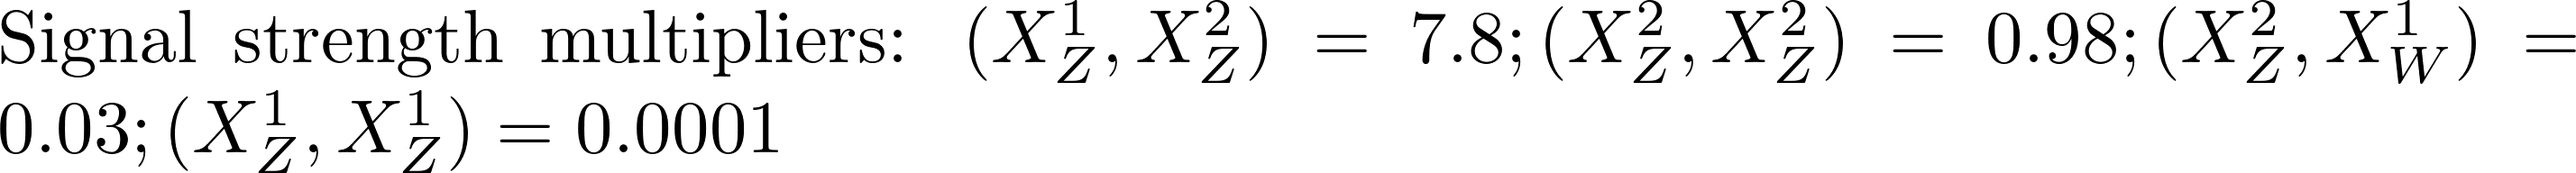
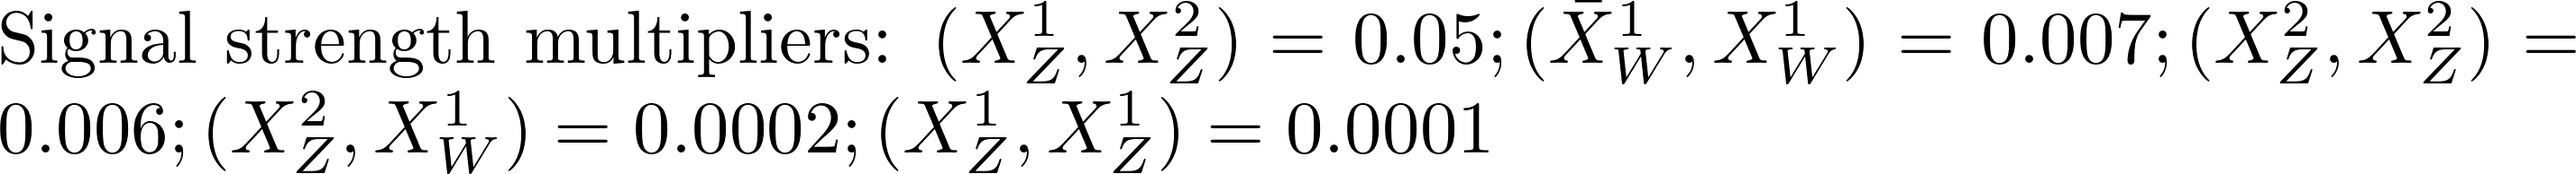
automated update by plotHiscore.py to walk322_5:     K=-24.149 TL=0.15 walkerid=569

diff --git a/protomodels/walk322_5/rawnumbers.html b/protomodels/walk322_5/rawnumbers.html
@@ -1,12 +1,12 @@
 <table>
 <tr><th>Analysis Name</th><th>Type</th><th>Dataset</th><th>Topos</th><th>Observed</th><th>Expected</th><th>Approx &sigma;</th><th>Particles</th>
 </tr>
-<tr><td><a href=https://atlas.web.cern.ch/Atlas/GROUPS/PHYSICS/PAPERS/EXOT-2018-06/>ATLAS-EXOT-2018-06</a></td><td>em</td> <td>EM10</td><td>TChiISR</td><td>413</td><td>359.00 +/- 10.00</td><td style="text-align:right">2.4 &sigma;</td><td style="text-align:right">X<sup>2</sup><sub>Z</sub>, X<sup>1</sup><sub>Z</sub></td></tr>
-<tr><td><a href=http://cms-results.web.cern.ch/cms-results/public-results/publications/EXO-20-004/>CMS-EXO-20-004</a></td><td>comb</td> <td>-</td><td>TChiISR</td><td> 4e+01 fb </td><td> 3e+01 fb</td><td style="text-align:right">2.2 &sigma;</td><td style="text-align:right">X<sup>2</sup><sub>Z</sub>, X<sup>1</sup><sub>Z</sub></td></tr>
-<tr><td><a href=http://cms-results.web.cern.ch/cms-results/public-results/publications/EXO-19-010/>CMS-EXO-19-010</a></td><td>em</td> <td>SR_nlay5</td><td>TDTM2F</td><td>6</td><td>3.70 +/- 1.24</td><td style="text-align:right">0.8 &sigma;</td><td style="text-align:right">X<sup>1</sup><sub>W</sub>, X<sup>2</sup><sub>Z</sub>, X<sup>1</sup><sub>Z</sub></td></tr>
-<tr><td><a href=https://atlas.web.cern.ch/Atlas/GROUPS/PHYSICS/PAPERS/SUSY-2018-42/>ATLAS-SUSY-2018-42</a></td><td>em</td> <td>SR300_High_long</td><td>TDTM2F</td><td>7</td><td>5.10 +/- 0.50</td><td style="text-align:right">0.7 &sigma;</td><td style="text-align:right">X<sup>1</sup><sub>W</sub>, X<sup>2</sup><sub>Z</sub>, X<sup>1</sup><sub>Z</sub></td></tr>
-<tr><td><a href=https://atlas.web.cern.ch/Atlas/GROUPS/PHYSICS/PAPERS/SUSY-2018-19/>ATLAS-SUSY-2018-19</a></td><td>em</td> <td>SR_EW</td><td>TDTM2F</td><td>3</td><td>3.00 +/- 0.70</td><td style="text-align:right">-0.2 &sigma;</td><td style="text-align:right">X<sup>1</sup><sub>W</sub>, X<sup>2</sup><sub>Z</sub>, X<sup>1</sup><sub>Z</sub></td></tr>
-<tr><td><a href=https://atlas.web.cern.ch/Atlas/GROUPS/PHYSICS/PAPERS/SUSY-2016-06/>ATLAS-SUSY-2016-06</a></td><td>em</td> <td>SR_EW</td><td>TDTM2F</td><td>9</td><td>11.80 +/- 3.10</td><td style="text-align:right">-0.7 &sigma;</td><td style="text-align:right">X<sup>1</sup><sub>W</sub>, X<sup>2</sup><sub>Z</sub>, X<sup>1</sup><sub>Z</sub></td></tr>
+<tr><td><a href=https://atlas.web.cern.ch/Atlas/GROUPS/PHYSICS/PAPERS/EXOT-2018-06/>ATLAS-EXOT-2018-06</a></td><td>em</td> <td>EM10</td><td>TChiISR</td><td>413</td><td>359.00 +/- 10.00</td><td style="text-align:right">2.5 &sigma;</td><td style="text-align:right">X<sup>2</sup><sub>Z</sub>, X<sup>1</sup><sub>Z</sub></td></tr>
+<tr><td><a href=http://cms-results.web.cern.ch/cms-results/public-results/publications/EXO-19-010/>CMS-EXO-19-010</a></td><td>em</td> <td>SR_nlay5</td><td>TDTM1F, TDTM2F</td><td>6</td><td>3.70 +/- 1.24</td><td style="text-align:right">0.8 &sigma;</td><td style="text-align:right">X<sup>1</sup><sub>W</sub>, X<sup>2</sup><sub>Z</sub>, X<sup>1</sup><sub>Z</sub></td></tr>
+<tr><td><a href=https://atlas.web.cern.ch/Atlas/GROUPS/PHYSICS/PAPERS/SUSY-2018-42/>ATLAS-SUSY-2018-42</a></td><td>em</td> <td>SR300_High_long</td><td>TDTM1F, TDTM2F</td><td>7</td><td>5.10 +/- 0.50</td><td style="text-align:right">0.7 &sigma;</td><td style="text-align:right">X<sup>1</sup><sub>W</sub>, X<sup>2</sup><sub>Z</sub>, X<sup>1</sup><sub>Z</sub></td></tr>
+<tr><td><a href=https://atlas.web.cern.ch/Atlas/GROUPS/PHYSICS/PAPERS/SUSY-2018-19/>ATLAS-SUSY-2018-19</a></td><td>em</td> <td>SR_EW</td><td>TDTM1F, TDTM2F</td><td>3</td><td>3.00 +/- 0.70</td><td style="text-align:right">-0.2 &sigma;</td><td style="text-align:right">X<sup>1</sup><sub>W</sub>, X<sup>2</sup><sub>Z</sub>, X<sup>1</sup><sub>Z</sub></td></tr>
+<tr><td><a href=https://atlas.web.cern.ch/Atlas/GROUPS/PHYSICS/PAPERS/SUSY-2016-06/>ATLAS-SUSY-2016-06</a></td><td>em</td> <td>SR_EW</td><td>TDTM1F, TDTM2F</td><td>9</td><td>11.80 +/- 3.10</td><td style="text-align:right">-0.7 &sigma;</td><td style="text-align:right">X<sup>1</sup><sub>W</sub>, X<sup>2</sup><sub>Z</sub>, X<sup>1</sup><sub>Z</sub></td></tr>
+<tr><td><a href=http://cms-results.web.cern.ch/cms-results/public-results/publications/EXO-20-004/>CMS-EXO-20-004</a></td><td>comb</td> <td>-</td><td>TChiISR</td><td> 4e+01 fb </td><td> 3e+01 fb</td><td style="text-align:right">-0.8 &sigma;</td><td style="text-align:right">X<sup>2</sup><sub>Z</sub>, X<sup>1</sup><sub>Z</sub></td></tr>
 </table>
 <table style='color:grey'>
 <tr><th>Not in Best Combo</th><th>Type</th><th>Dataset</th><th>Topos</th><th>Observed</th><th>Expected</th><th>Approx &sigma;</th><th>Particles</th></table>

diff --git a/protomodels/walk322_5/index.html b/protomodels/walk322_5/index.html
@@ -1,27 +1,27 @@
 <html>
 <body>
 <center>
-<table><td><h1>Current best protomodel: <i>K</i>=-80.51, <i>TL</i>=11.60</h1><td><img height=60px src=https://smodels.github.io//protomodels/logos/protomodel_lego.png></table>
+<table><td><h1>Current best protomodel: <i>K</i>=-24.15, <i>TL</i>=0.15</h1><td><img height=60px src=https://smodels.github.io//protomodels/logos/protomodel_lego.png></table>
 </center>
-<b><a href=./hiscore.slha>ProtoModel</a> <a href=./pmodel.dict>(dict)</a> produced with <a href=https://smodels.github.io//docs/Validation321>database v3.2.1</a>, allowed_extr 0.0 in walker 554 step 49.</b> <br>
+<b><a href=./hiscore.slha>ProtoModel</a> <a href=./pmodel.dict>(dict)</a> produced with <a href=https://smodels.github.io//docs/Validation321>database v3.2.1</a>, allowed_extr 0.0 in walker 569 step 1.</b> <br>
 <table width=80%>
 <tr><td>
 <br><b>Critics:</b> passed both critics<br>
-<br><b>UL Critic: 1/1 analyses exclude</b><br>
-ATLAS-EXOT-2018-06:EM12:: <span style='color: darkred;'>r<sub>obs</sub>=1.73, r<sub>exp</sub>=1.443</span><br>
-ATLAS-SUSY-2018-19:SR_EW:: <span style='color: darkgreen;'>r<sub>obs</sub>=0.286, r<sub>exp</sub>=0.279</span><br>
-CMS-EXO-20-004:SR_2018_22:: <span style='color: darkgreen;'>r<sub>obs</sub>=0.243, r<sub>exp</sub>=0.39</span><br>
-<br><b>LLHD Critic:</b> ATLAS-EXOT-2018-06:EM12, CMS-EXO-20-004:matrix.cov, ATLAS-SUSY-2018-19:SR_EW:: <span style='color: darkred;'>r<sub>obs</sub>=1.16, r<sub>exp</sub>=1.87</span><br>
+<br><b>UL Critic: 0/0 analyses exclude</b><br>
+ATLAS-SUSY-2018-19:SR_EW:: <span style='color: darkgreen;'>r<sub>obs</sub>=0.149, r<sub>exp</sub>=0.145</span><br>
+ATLAS-SUSY-2016-06:SR_EW:: <span style='color: darkgreen;'>r<sub>obs</sub>=0.042, r<sub>exp</sub>=0.033</span><br>
+CMS-EXO-19-010:SR_nlay5:: <span style='color: darkgreen;'>r<sub>obs</sub>=0.033, r<sub>exp</sub>=0.044</span><br>
+<br><b>LLHD Critic:</b> ATLAS-SUSY-2018-19:SR_EW:: <span style='color: darkgreen;'>r<sub>obs</sub>=0.15, r<sub>exp</sub>=0.15</span><br>
 </ul>
-<td><img width=600px src=./texdoc.png?1793455244>
-<br><span style='font-size: smaller; color: darkred;'>Last updated: Sat Oct 31 15:00:44 2026</span>
+<td><img width=600px src=./texdoc.png?1793457836>
+<br><span style='font-size: smaller; color: darkred;'>Last updated: Sat Oct 31 15:43:56 2026</span>
 <br><br><b>6 predictions available. Highest r values are:</b><br><ul>
-<li><a href=https://atlas.web.cern.ch/Atlas/GROUPS/PHYSICS/PAPERS/EXOT-2018-06/>ATLAS-EXOT-2018-06</a>:EM12:TChiISR r=1.73, r<sub>exp</sub>=1.44<br>
-<li><a href=https://atlas.web.cern.ch/Atlas/GROUPS/PHYSICS/PAPERS/SUSY-2018-19/>ATLAS-SUSY-2018-19</a>:SR_EW:TDTM2F r=0.29, r<sub>exp</sub>=0.28<br>
-<li><a href=http://cms-results.web.cern.ch/cms-results/public-results/publications/EXO-20-004/>CMS-EXO-20-004</a>:SR_2018_22:TChiISR r=0.24, r<sub>exp</sub>=0.39<br>
-<li><a href=https://atlas.web.cern.ch/Atlas/GROUPS/PHYSICS/PAPERS/SUSY-2016-06/>ATLAS-SUSY-2016-06</a>:SR_EW:TDTM2F r=0.08, r<sub>exp</sub>=0.06<br>
+<li><a href=https://atlas.web.cern.ch/Atlas/GROUPS/PHYSICS/PAPERS/SUSY-2018-19/>ATLAS-SUSY-2018-19</a>:SR_EW:TDTM2F,TDTM1F r=0.15, r<sub>exp</sub>=0.15<br>
+<li><a href=https://atlas.web.cern.ch/Atlas/GROUPS/PHYSICS/PAPERS/SUSY-2016-06/>ATLAS-SUSY-2016-06</a>:SR_EW:TDTM2F,TDTM1F r=0.04, r<sub>exp</sub>=0.03<br>
+<li><a href=http://cms-results.web.cern.ch/cms-results/public-results/publications/EXO-19-010/>CMS-EXO-19-010</a>:SR_nlay5:TDTM2F,TDTM1F r=0.03, r<sub>exp</sub>=0.04<br>
+<li><a href=https://atlas.web.cern.ch/Atlas/GROUPS/PHYSICS/PAPERS/EXOT-2018-06/>ATLAS-EXOT-2018-06</a>:EM12:TChiISR r=0.01, r<sub>exp</sub>=0.01<br>
 </table><table style="width:80%">
-<td width=40%><img height=450px src=./mass_hierarchy.png?1793455244><td width=60%><font size=-3><iframe type="text/html" height="350px" width="100%" frameborder="0" src="./rawnumbers.html?1793455244"></iframe></font>
+<td width=40%><img height=450px src=./mass_hierarchy.png?1793457836><td width=60%><font size=-3><iframe type="text/html" height="350px" width="100%" frameborder="0" src="./rawnumbers.html?1793457836"></iframe></font>
 </table>
 </body>
 </html>
